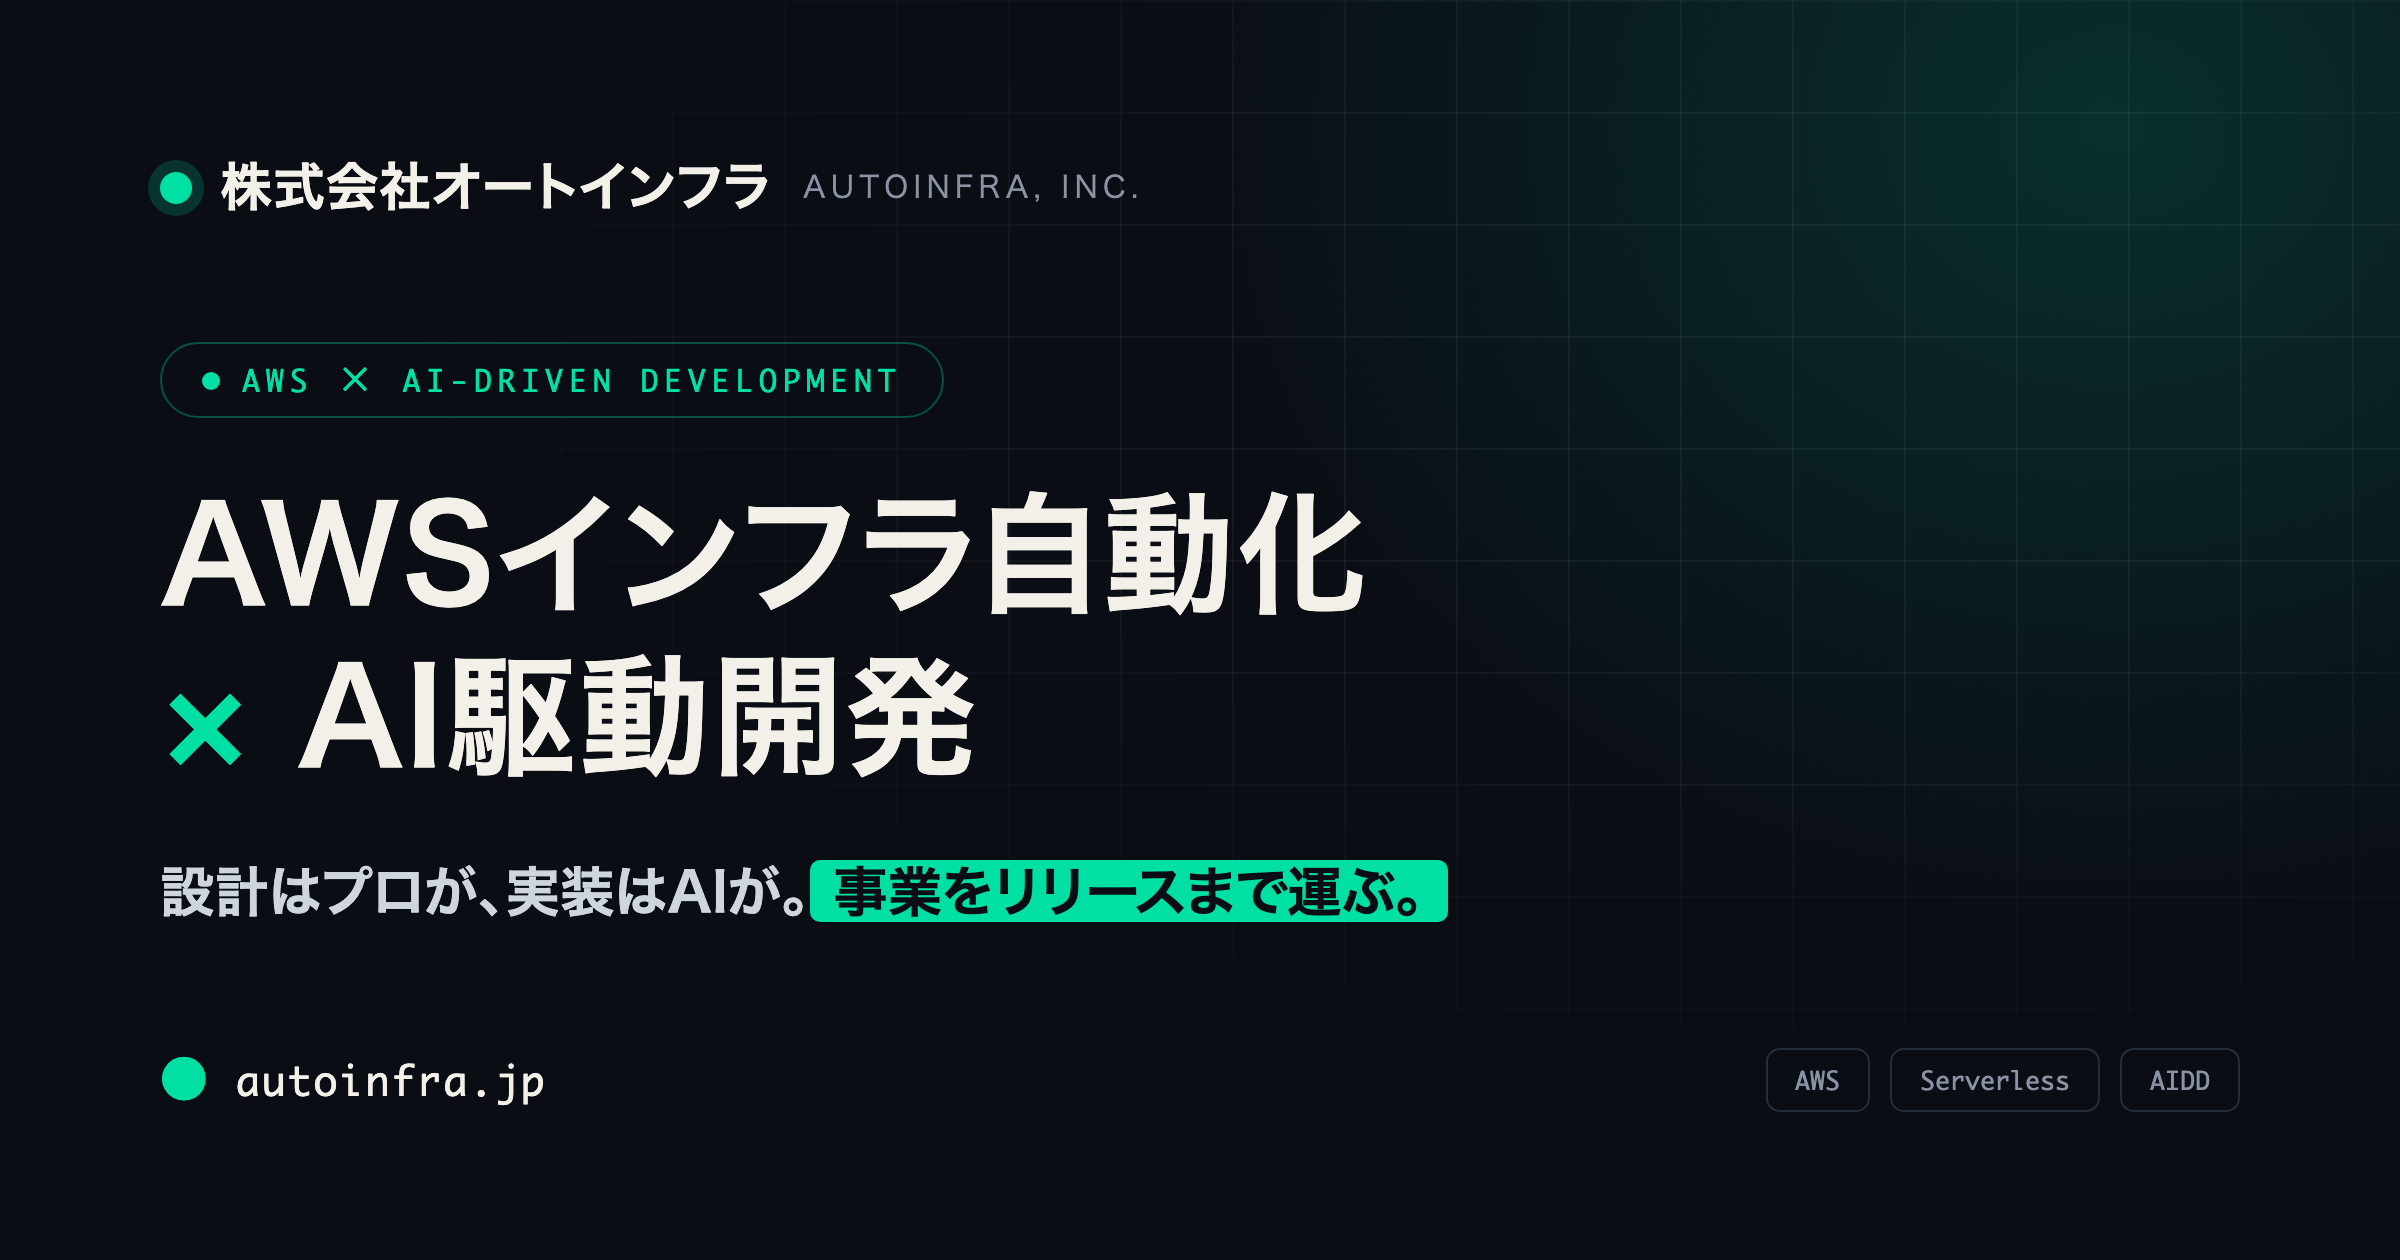
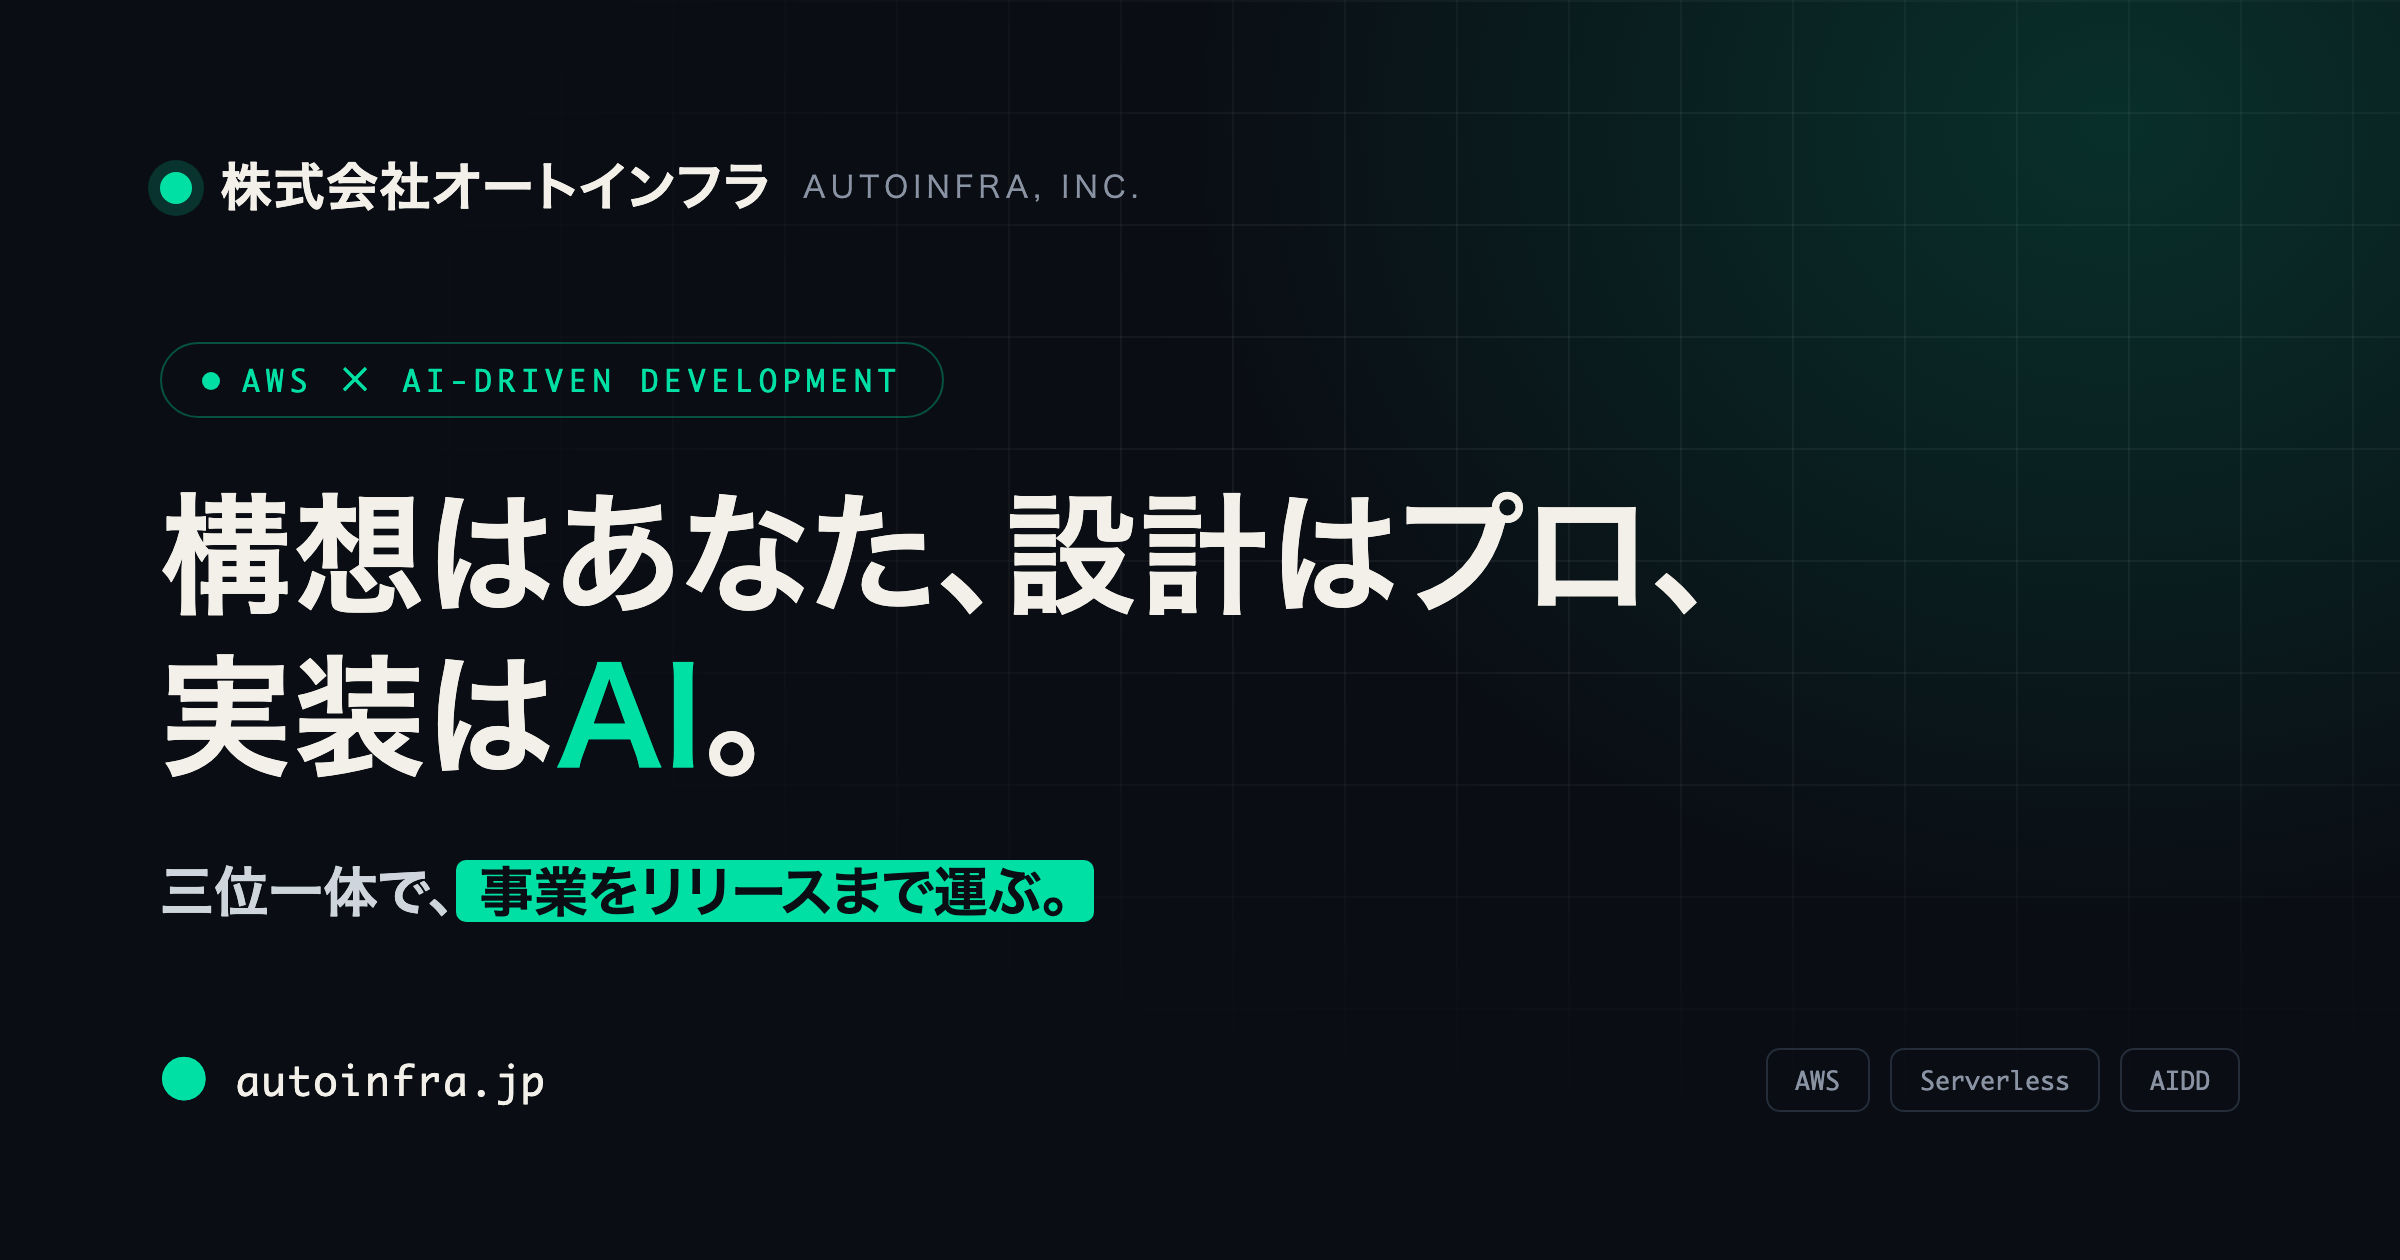
ヒーロー・アプローチ・課題を再構成
- ヒーロー/アプローチを3者モデル（構想=あなた/設計=プロ/実装=AI）に刷新
- 課題セクションを「AIの適用先が分からない・評価できない」起点に変更し、
  伴走・検証のメッセージを追加
- SEO文言（description/OGP/Twitter）とOGP画像を更新

Changed region(s): [[0.0625, 0.3714, 0.7188, 0.619], [0.0625, 0.681, 0.625, 0.7429]]

diff --git a/index.html b/index.html
@@ -6,7 +6,7 @@
 <title>株式会社オートインフラ ｜ AWSインフラ自動化 × AI駆動開発</title>
 
 <!-- Primary SEO -->
-<meta name="description" content="株式会社オートインフラは、AWSクラウドの設計・構築からAI駆動開発（AIDD）によるプロダクト内製化までを支援する技術企業です。手動運用とブラックボックスの受託から事業を解放し、設計はプロ・実装はAIで品質と速度を両立します。">
+<meta name="description" content="株式会社オートインフラは、AWSクラウドの設計・構築からAI駆動開発（AIDD）によるプロダクト内製化までを支援する技術企業です。構想はお客様、設計はプロ、実装はAI。3つの役割が三位一体となり、品質と速度を両立して事業をリリースまで運びます。">
 <meta name="keywords" content="AWS,クラウド,インフラ自動化,サーバーレス,AI駆動開発,AIDD,データベース移行,RDS,Lambda,AI-OCR,クラウドコンサルティング,新宿,オートインフラ">
 <meta name="author" content="株式会社オートインフラ">
 <meta name="robots" content="index,follow">
@@ -17,7 +17,7 @@
 <meta property="og:type" content="website">
 <meta property="og:site_name" content="株式会社オートインフラ">
 <meta property="og:title" content="株式会社オートインフラ ｜ AWSインフラ自動化 × AI駆動開発">
-<meta property="og:description" content="AWSクラウドの設計・構築から、AI駆動開発（AIDD）によるプロダクトの内製化まで。設計はプロ・実装はAIで、事業をリリースまで運びます。">
+<meta property="og:description" content="構想はあなた、設計はプロ、実装はAI。3つの役割が三位一体となり、AWSクラウドとAI駆動開発で事業をリリースまで運びます。">
 <meta property="og:url" content="https://autoinfra.jp/">
 <meta property="og:image" content="https://autoinfra.jp/ogp.png">
 <meta property="og:locale" content="ja_JP">
@@ -25,7 +25,7 @@
 <!-- Twitter Card -->
 <meta name="twitter:card" content="summary_large_image">
 <meta name="twitter:title" content="株式会社オートインフラ ｜ AWSインフラ自動化 × AI駆動開発">
-<meta name="twitter:description" content="AWSクラウドの設計・構築から、AI駆動開発（AIDD）によるプロダクトの内製化まで。設計はプロ・実装はAIで、事業をリリースまで運びます。">
+<meta name="twitter:description" content="構想はあなた、設計はプロ、実装はAI。3つの役割が三位一体となり、AWSクラウドとAI駆動開発で事業をリリースまで運びます。">
 <meta name="twitter:image" content="https://autoinfra.jp/ogp.png">
 
 <!-- Structured Data -->
@@ -136,15 +136,19 @@ section{position:relative}
 
 /* approach */
 .approach{border-bottom:1px solid var(--line)}
-.flow{display:grid;grid-template-columns:1fr auto 1fr;gap:0;align-items:stretch;border:1px solid var(--line);border-radius:14px;overflow:hidden;margin-bottom:30px}
-.flow .cell{padding:30px 28px;background:var(--ink-card)}
-.flow .cell.mid{display:grid;place-items:center;background:var(--ink-soft);border-left:1px solid var(--line);border-right:1px solid var(--line);padding:0 22px}
+.flow{display:grid;grid-template-columns:1fr auto 1fr auto 1fr;gap:0;align-items:stretch;border:1px solid var(--line);border-radius:14px;overflow:hidden;margin-bottom:30px}
+.flow .cell{padding:30px 24px;background:var(--ink-card)}
+.flow .cell.mid{display:grid;place-items:center;background:var(--ink-soft);border-left:1px solid var(--line);border-right:1px solid var(--line);padding:0 16px}
 .flow .cell.mid .x{font-family:monospace;color:var(--signal);font-size:22px}
+.flow .role{display:inline-flex;align-items:center;gap:7px;font-size:12px;font-weight:700;margin-bottom:12px;padding:4px 11px;border-radius:99px}
+.flow .a .role{color:var(--signal);background:rgba(0,224,164,.1);border:1px solid rgba(0,224,164,.3)}
+.flow .b .role{color:var(--paper);background:rgba(243,240,233,.07);border:1px solid var(--line)}
+.flow .c .role{color:var(--amber);background:rgba(255,177,59,.1);border:1px solid rgba(255,177,59,.3)}
 .flow .lab{font-family:monospace;font-size:11px;letter-spacing:.1em;color:var(--mute-2);margin-bottom:14px}
-.flow h4{font-size:17px;font-weight:700;margin-bottom:10px}
-.flow p{font-size:13.5px;color:var(--mute);line-height:1.75}
+.flow h4{font-size:16px;font-weight:700;margin-bottom:10px}
+.flow p{font-size:13px;color:var(--mute);line-height:1.7}
 .flow .a h4{color:var(--signal)}
-.flow .b h4{color:var(--amber)}
+.flow .c h4{color:var(--amber)}
 .appro-note{border-left:2px solid var(--signal);padding:6px 0 6px 22px;font-size:15.5px;color:var(--paper);font-weight:600;line-height:1.7}
 @media(max-width:820px){.flow{grid-template-columns:1fr}.flow .cell.mid{border:0;border-top:1px solid var(--line);border-bottom:1px solid var(--line);padding:14px}.flow .cell.mid .x{transform:rotate(90deg)}}
 
@@ -246,8 +250,8 @@ footer{border-top:1px solid var(--line);background:var(--ink-soft);padding:54px 
 <section class="hero">
   <div class="wrap">
     <span class="eyebrow"><span class="blink"></span>AWS × AI-DRIVEN DEVELOPMENT</span>
-    <h1>インフラの自動化と<br>AIの<span class="hl">"ブレ"を排した</span>実装で、<br>事業をリリースまで運ぶ。</h1>
-    <p class="lead">AWSクラウドの設計・構築から、AI駆動開発（AIDD）によるプロダクトの内製化まで。手動運用とブラックボックスの受託から、お客様を解放します。</p>
+    <h1>構想は、あなた。<br>設計はプロ、実装はAI。<br><span class="hl">三位一体で、</span><br>事業をリリースまで運ぶ。</h1>
+    <p class="lead">プロダクトオーナーはお客様自身。何を作りたいかを描くのはあなたで、AWS設計と品質はプロが、実装はAIが担います。手動運用とブラックボックスの受託から解放され、構想からリリースまでを最短距離で。</p>
     <div class="ctas">
       <a href="#contact" class="btn btn-primary">無料相談を申し込む <span class="arr">→</span></a>
       <a href="#services" class="btn btn-ghost">サービスを見る</a>
@@ -270,25 +274,27 @@ footer{border-top:1px solid var(--line);background:var(--ink-soft);padding:54px 
   <div class="wrap">
     <div class="sec-head">
       <div class="kicker">01 <span class="slash">/</span> CHALLENGES</div>
-      <h2>クラウドとAI、その"次の一手"で<br>つまずいていませんか。</h2>
+      <h2>AIは便利そう。でも――<br>自社の"どこに"使えるのか、分からない。</h2>
+      <p>多くの企業がつまずくのは「次の一手」ではなく、その手前。何にどう活かせばいいのか、出てきたものが正しいのか、判断がつかない。</p>
     </div>
     <div class="prob-grid">
       <div class="prob">
         <div class="q">?</div>
-        <h4>手動運用とコストが膨らむ</h4>
-        <p>オンプレや手作業の運用から抜け出せず、インフラコストと運用負荷が事業の足かせになっている。</p>
+        <h4>AIを"何に"使えるか分からない</h4>
+        <p>話題なのは分かる。でも自社の業務やサービスの、どこにどう適用すれば成果が出るのか。当たりがつかないまま止まっている。</p>
       </div>
       <div class="prob">
         <div class="q">?</div>
-        <h4>受託はブラックボックス</h4>
-        <p>数百万〜のコストをかけても中身は不透明。保守も外注で、自社に技術もコードも残らない。</p>
+        <h4>出てきたものを評価できない</h4>
+        <p>AIがポンと出した成果物が、本当に良いのか・危なくないのか。技術に詳しくないと、品質もセキュリティも自分では判断できない。</p>
       </div>
       <div class="prob">
         <div class="q">?</div>
-        <h4>AIは導入したが信頼できない</h4>
-        <p>市販のAI-OCRやツールは結果がブレる。ハルシネーションの不安から、業務に組み込みきれない。</p>
+        <h4>一緒に形にする相手がいない</h4>
+        <p>アイデアはある。けれど整理し、検証し、カタチにしてくれるパートナーがいない。受託は丸投げで、伴走はしてくれない。</p>
       </div>
     </div>
+    <p class="appro-note" style="margin-top:32px">私たちは、その曖昧なアイデアを一緒にカタチにし、AIが生んだ成果物の品質とセキュリティを検証しながら、リリースまで伴走します。</p>
   </div>
 </section>
 
@@ -297,23 +303,32 @@ footer{border-top:1px solid var(--line);background:var(--ink-soft);padding:54px 
   <div class="wrap">
     <div class="sec-head">
       <div class="kicker">02 <span class="slash">/</span> APPROACH</div>
-      <h2>設計はプロが、実装はAIが。<br>役割を分けて、品質と速度を両立する。</h2>
-      <p>私たちのAIDD（AI駆動開発）は、AIの速度とプロの品質管理を組み合わせた開発モデルです。</p>
+      <h2>構想はあなた、設計はプロ、実装はAI。<br>3つの役割で、品質と速度を両立する。</h2>
+      <p>私たちのAIDD（AI駆動開発）は、お客様の構想力・プロの品質管理・AIの実装速度を組み合わせた開発モデルです。</p>
     </div>
     <div class="flow">
       <div class="cell a">
-        <div class="lab">HUMAN — DESIGN</div>
-        <h4>プロが設計・品質を担保</h4>
-        <p>要件定義・アーキテクチャ設計・レビュー体制の構築。AIが正確に動くための設計図と、ハルシネーションを排除する仕組みをプロが用意します。</p>
+        <span class="role">● あなた</span>
+        <div class="lab">YOU — VISION / OWNER</div>
+        <h4>構想とプロダクトオーナー</h4>
+        <p>「何を、なぜ作るか」を決める主役はお客様。事業の意思決定とゴール設定を担い、プロダクトの所有権はお客様に残ります。</p>
       </div>
-      <div class="cell mid"><span class="x">×</span></div>
+      <div class="cell mid"><span class="x">→</span></div>
       <div class="cell b">
+        <span class="role">● プロ</span>
+        <div class="lab">PRO — DESIGN / QA</div>
+        <h4>設計と品質を担保</h4>
+        <p>要件定義・アーキテクチャ設計・レビュー体制の構築。AIが正確に動く設計図と、ハルシネーションを排除する仕組みをプロが用意します。</p>
+      </div>
+      <div class="cell mid"><span class="x">→</span></div>
+      <div class="cell c">
+        <span class="role">● AI</span>
         <div class="lab">AI — IMPLEMENT</div>
-        <h4>AIが高速に実装</h4>
+        <h4>高速に実装</h4>
         <p>プロの設計書に沿ってAIが複数の機能を同時に実装。受託の数分の一のコストとスピードで、動くプロダクトに到達します。</p>
       </div>
     </div>
-    <p class="appro-note">「助言だけ」でも「丸投げの受託」でもない。上流設計から本番リリースまでを、一人称でリードします。</p>
+    <p class="appro-note">「助言だけ」でも「丸投げの受託」でもない。あなたの構想を主役に、上流設計から本番リリースまでを一人称でリードします。</p>
   </div>
 </section>
 

diff --git a/ogp.html b/ogp.html
@@ -66,8 +66,8 @@ h1 .x{color:var(--signal)}
 
     <div class="mid">
       <span class="eyebrow"><span class="b"></span>AWS × AI-DRIVEN DEVELOPMENT</span>
-      <h1>AWSインフラ自動化<br><span class="x">×</span> AI駆動開発</h1>
-      <div class="sub">設計はプロが、実装はAIが。<span class="hl">事業をリリースまで運ぶ。</span></div>
+      <h1>構想はあなた、設計はプロ、<br>実装は<span class="x">AI</span>。</h1>
+      <div class="sub">三位一体で、<span class="hl">事業をリリースまで運ぶ。</span></div>
     </div>
 
     <div class="foot">
